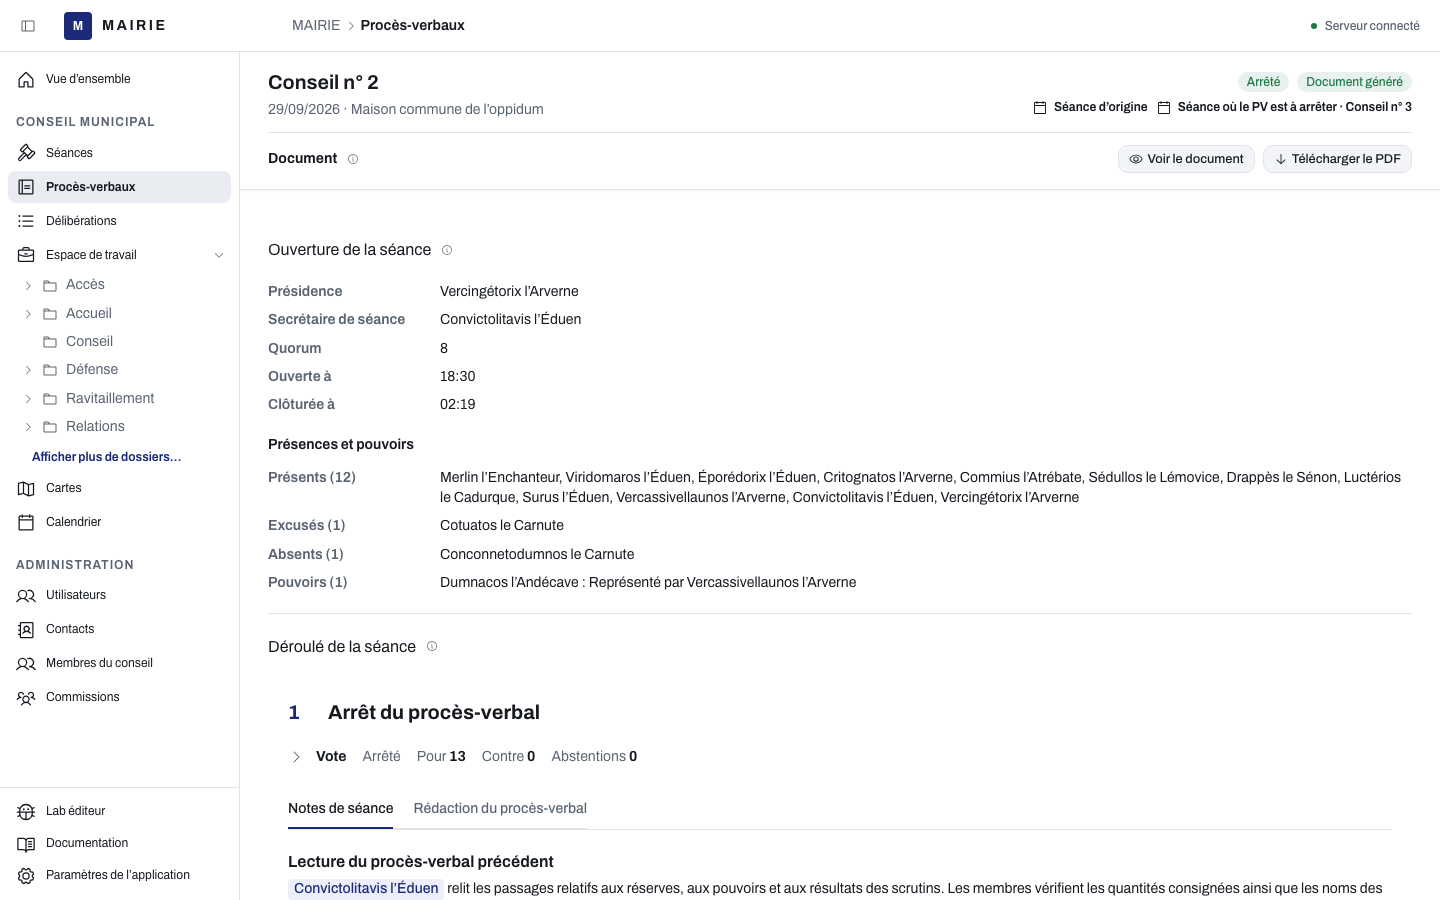
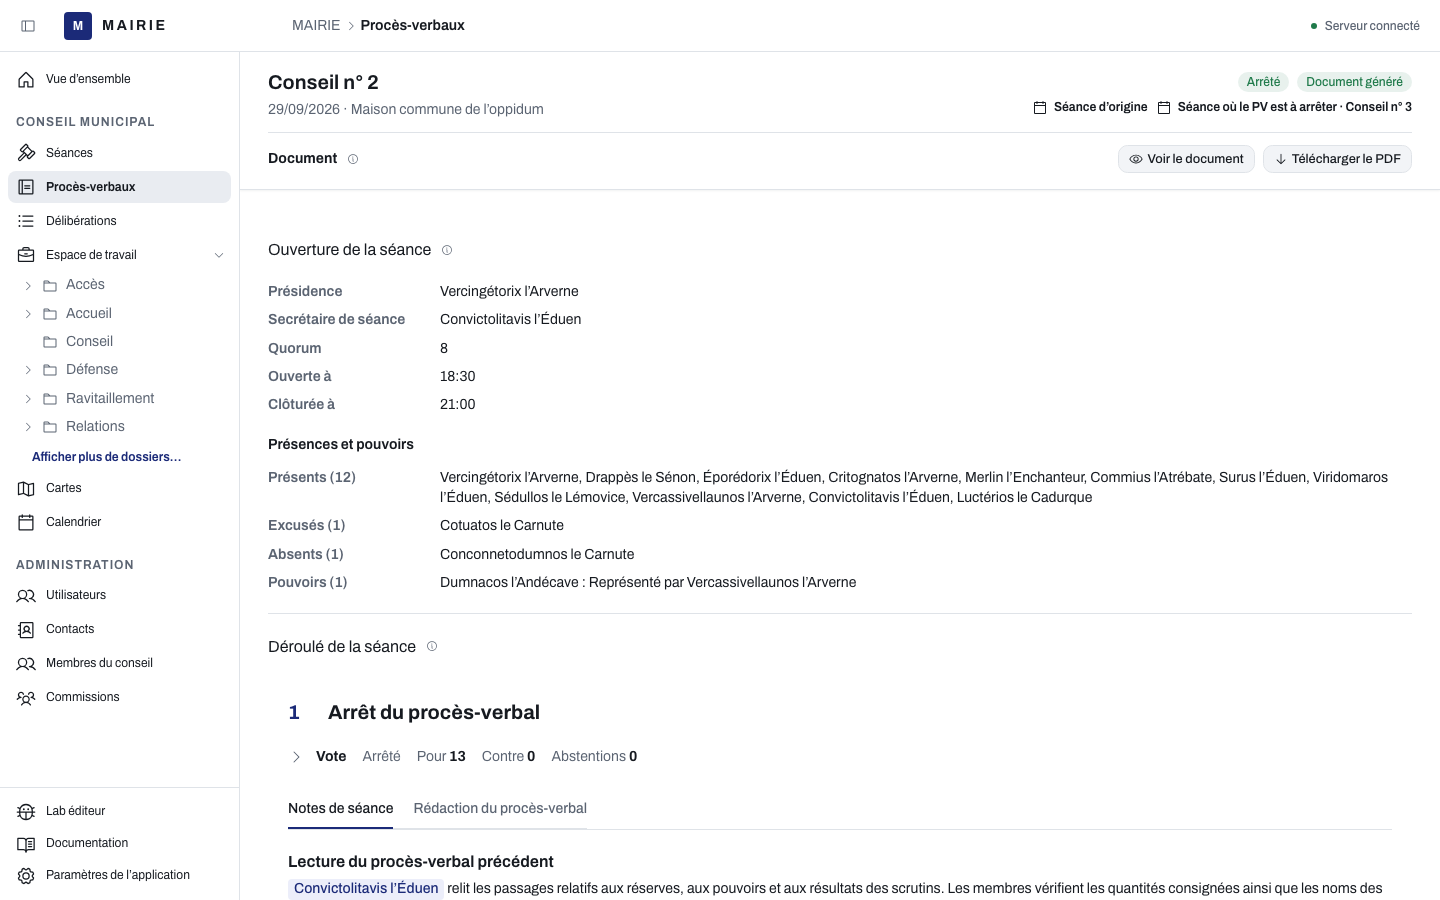
Let a ballot confirmation carry its time and give Alésia closed meetings realistic durations
A ballot result preview can now be confirmed with an optional confirmedAt,
accepted between the start of the agenda item and the server time; without
it the server time still applies. The Alésia dataset dates its ballots,
item ends and closures so that closed meetings last two to three hours.

Changed region(s): [[0.3125, 0.4978, 0.9688, 0.56], [0.3125, 0.4356, 0.3438, 0.4667]]

diff --git a/packages/server/src/api/routes/ballotPreviewsRoutes.ts b/packages/server/src/api/routes/ballotPreviewsRoutes.ts
@@ -1,6 +1,5 @@
-import { createBallotResultPreviewSchema } from "@hall/api-contract";
+import { confirmBallotResultPreviewSchema, createBallotResultPreviewSchema } from "@hall/api-contract";
 import { Router } from "express";
-import { z } from "zod";
 import type { Cradle } from "../../core/container.js";
 import { requirePermission } from "../../security/authorization.js";
 import { DomainError } from "../../services/errors.js";
@@ -17,12 +16,12 @@ export function createBallotPreviewsRouter({ councilBallotService, councilClient
     response.json(await councilBallotService.getPreview(routeParameter(request.params.previewId)));
   });
   router.post("/:previewId/confirm", requireActionPermission("ballot.confirm"), async (request, response) => {
-    z.object({}).strict().parse(request.body);
+    const { confirmedAt } = confirmBallotResultPreviewSchema.parse(request.body);
     const previewId = routeParameter(request.params.previewId);
     const preview = await councilBallotService.getPreview(previewId);
     const item = await councilClient.openAgendaItem(preview.agendaItemId);
     if (!item) throw new DomainError("agenda_item_not_found", 404);
-    const ballot = await councilBallotService.confirmPreview(previewId);
+    const ballot = await councilBallotService.confirmPreview(previewId, confirmedAt);
     realtimeEvents.publish({ type: "meeting.changed", meetingId: item.councilMeetingId });
     response.json(ballot);
   });

diff --git a/packages/server/src/services/councilBallotService.ts b/packages/server/src/services/councilBallotService.ts
@@ -16,7 +16,7 @@ function translateFailure(error: unknown): never {
 export interface CouncilBallotService {
   preview(input: CreateBallotResultPreview): Promise<BallotResultPreview>;
   getPreview(id: string): Promise<BallotResultPreview>;
-  confirmPreview(id: string): Promise<Ballot>;
+  confirmPreview(id: string, confirmedAt?: string): Promise<Ballot>;
 
   listForMeeting(meetingId: string): Promise<Ballot[]>;
   get(ballotId: string): Promise<Ballot>;
@@ -38,7 +38,8 @@ export function createCouncilBallotService({ councilClient }: { councilClient: C
       if (!preview) throw new DomainError("ballot_preview_not_found", 404);
       return preview;
     },
-    confirmPreview: (id) => councilClient.confirmBallotResultPreview(id).catch(translateFailure),
+    confirmPreview: (id, confirmedAt) =>
+      councilClient.confirmBallotResultPreview(id, confirmedAt).catch(translateFailure),
     listForMeeting: (meetingId) => councilClient.listBallots(meetingId).catch(translateFailure),
     get,
     async listParticipations(ballotId) {

diff --git a/packages/api-contract/src/contract.test.ts b/packages/api-contract/src/contract.test.ts
@@ -9,6 +9,7 @@ import {
   completeAgendaItemSchema,
   councilBusinessSchema,
   councilMeetingSchema,
+  confirmBallotResultPreviewSchema,
   createBallotResultPreviewSchema,
   createCouncilBusinessSchema,
   createCouncilMemberSchema,
@@ -415,6 +416,15 @@ describe("shared HTTP contract", () => {
         candidate: { ...base, procedure: "cfu", mode: "public", votes: [] },
       }),
     ).toThrow();
+  });
+
+  it("accepts a ballot confirmation with or without its dated time", () => {
+    expect(confirmBallotResultPreviewSchema.parse({})).toEqual({});
+    expect(confirmBallotResultPreviewSchema.parse({ confirmedAt: "2026-09-12T19:40:00+02:00" })).toEqual({
+      confirmedAt: "2026-09-12T19:40:00+02:00",
+    });
+    expect(() => confirmBallotResultPreviewSchema.parse({ confirmedAt: "19:40" })).toThrow();
+    expect(() => confirmBallotResultPreviewSchema.parse({ candidate: {} })).toThrow();
   });
 
   it("keeps contacts and council mandates normalized", () => {

diff --git a/packages/postgres/src/council.ts b/packages/postgres/src/council.ts
@@ -1719,14 +1719,18 @@ export class PostgresCouncil {
     );
   }
 
-  confirmBallotResultPreview(request: PostgresCouncilRequest, previewId: string): Promise<PostgresBallot> {
+  confirmBallotResultPreview(
+    request: PostgresCouncilRequest,
+    previewId: string,
+    confirmedAt?: string,
+  ): Promise<PostgresBallot> {
     const id = resourceIdSchema.parse(previewId);
     return this.transactions.run(
       { role: request.role, context: this.runContext(request, "ballot.confirm") },
       async (client) => {
         const ballot = await callJson(client, {
-          text: "SELECT hall_api.confirm_ballot_result_preview($1::uuid) AS payload",
-          values: [id],
+          text: "SELECT hall_api.confirm_ballot_result_preview($1::uuid, $2::timestamptz) AS payload",
+          values: [id, confirmedAt ?? null],
           schema: postgresBallotSchema,
         });
         await recordAuditEvent(client, {

diff --git a/packages/api-contract/src/ballotResultPreview.ts b/packages/api-contract/src/ballotResultPreview.ts
@@ -45,6 +45,9 @@ export const reviewedBallotCandidateSchema = z.discriminatedUnion("mode", [
 export const createBallotResultPreviewSchema = z
   .object({ agendaItemId: id, candidate: ordinaryBallotCandidateSchema })
   .strict();
+export const confirmBallotResultPreviewSchema = z
+  .object({ confirmedAt: z.iso.datetime({ offset: true }).optional() })
+  .strict();
 export const ballotResultPreviewSchema = z
   .object({
     id,
@@ -67,4 +70,5 @@ export const ballotResultPreviewSchema = z
   })
   .strict();
 export type CreateBallotResultPreview = z.input<typeof createBallotResultPreviewSchema>;
+export type ConfirmBallotResultPreview = z.infer<typeof confirmBallotResultPreviewSchema>;
 export type BallotResultPreview = z.infer<typeof ballotResultPreviewSchema>;

diff --git a/packages/server/src/infrastructure/postgres/councilClient.ts b/packages/server/src/infrastructure/postgres/councilClient.ts
@@ -418,8 +418,10 @@ export function createPostgresCouncilClient({
         .nullable()
         .parse(await call(() => postgresCouncil.openBallotResultPreview(currentRequest(), id)));
     },
-    async confirmBallotResultPreview(id) {
-      return ballotSchema.parse(await call(() => postgresCouncil.confirmBallotResultPreview(currentRequest(), id)));
+    async confirmBallotResultPreview(id, confirmedAt) {
+      return ballotSchema.parse(
+        await call(() => postgresCouncil.confirmBallotResultPreview(currentRequest(), id, confirmedAt)),
+      );
     },
     async meetingConduct(id) {
       return meetingConductWorkspaceSchema.parse(

diff --git a/packages/server/src/clients/councilClient.ts b/packages/server/src/clients/councilClient.ts
@@ -94,7 +94,7 @@ export interface CouncilClient {
 
   createBallotResultPreview(input: CreateBallotResultPreview): Promise<BallotResultPreview>;
   openBallotResultPreview(id: string): Promise<BallotResultPreview | null>;
-  confirmBallotResultPreview(id: string): Promise<Ballot>;
+  confirmBallotResultPreview(id: string, confirmedAt?: string): Promise<Ballot>;
 
   addOpenQuestion(meetingId: string, input: AddOpenQuestion): Promise<AgendaItem>;
   meetingConduct(meetingId: string): Promise<MeetingConductWorkspace>;
